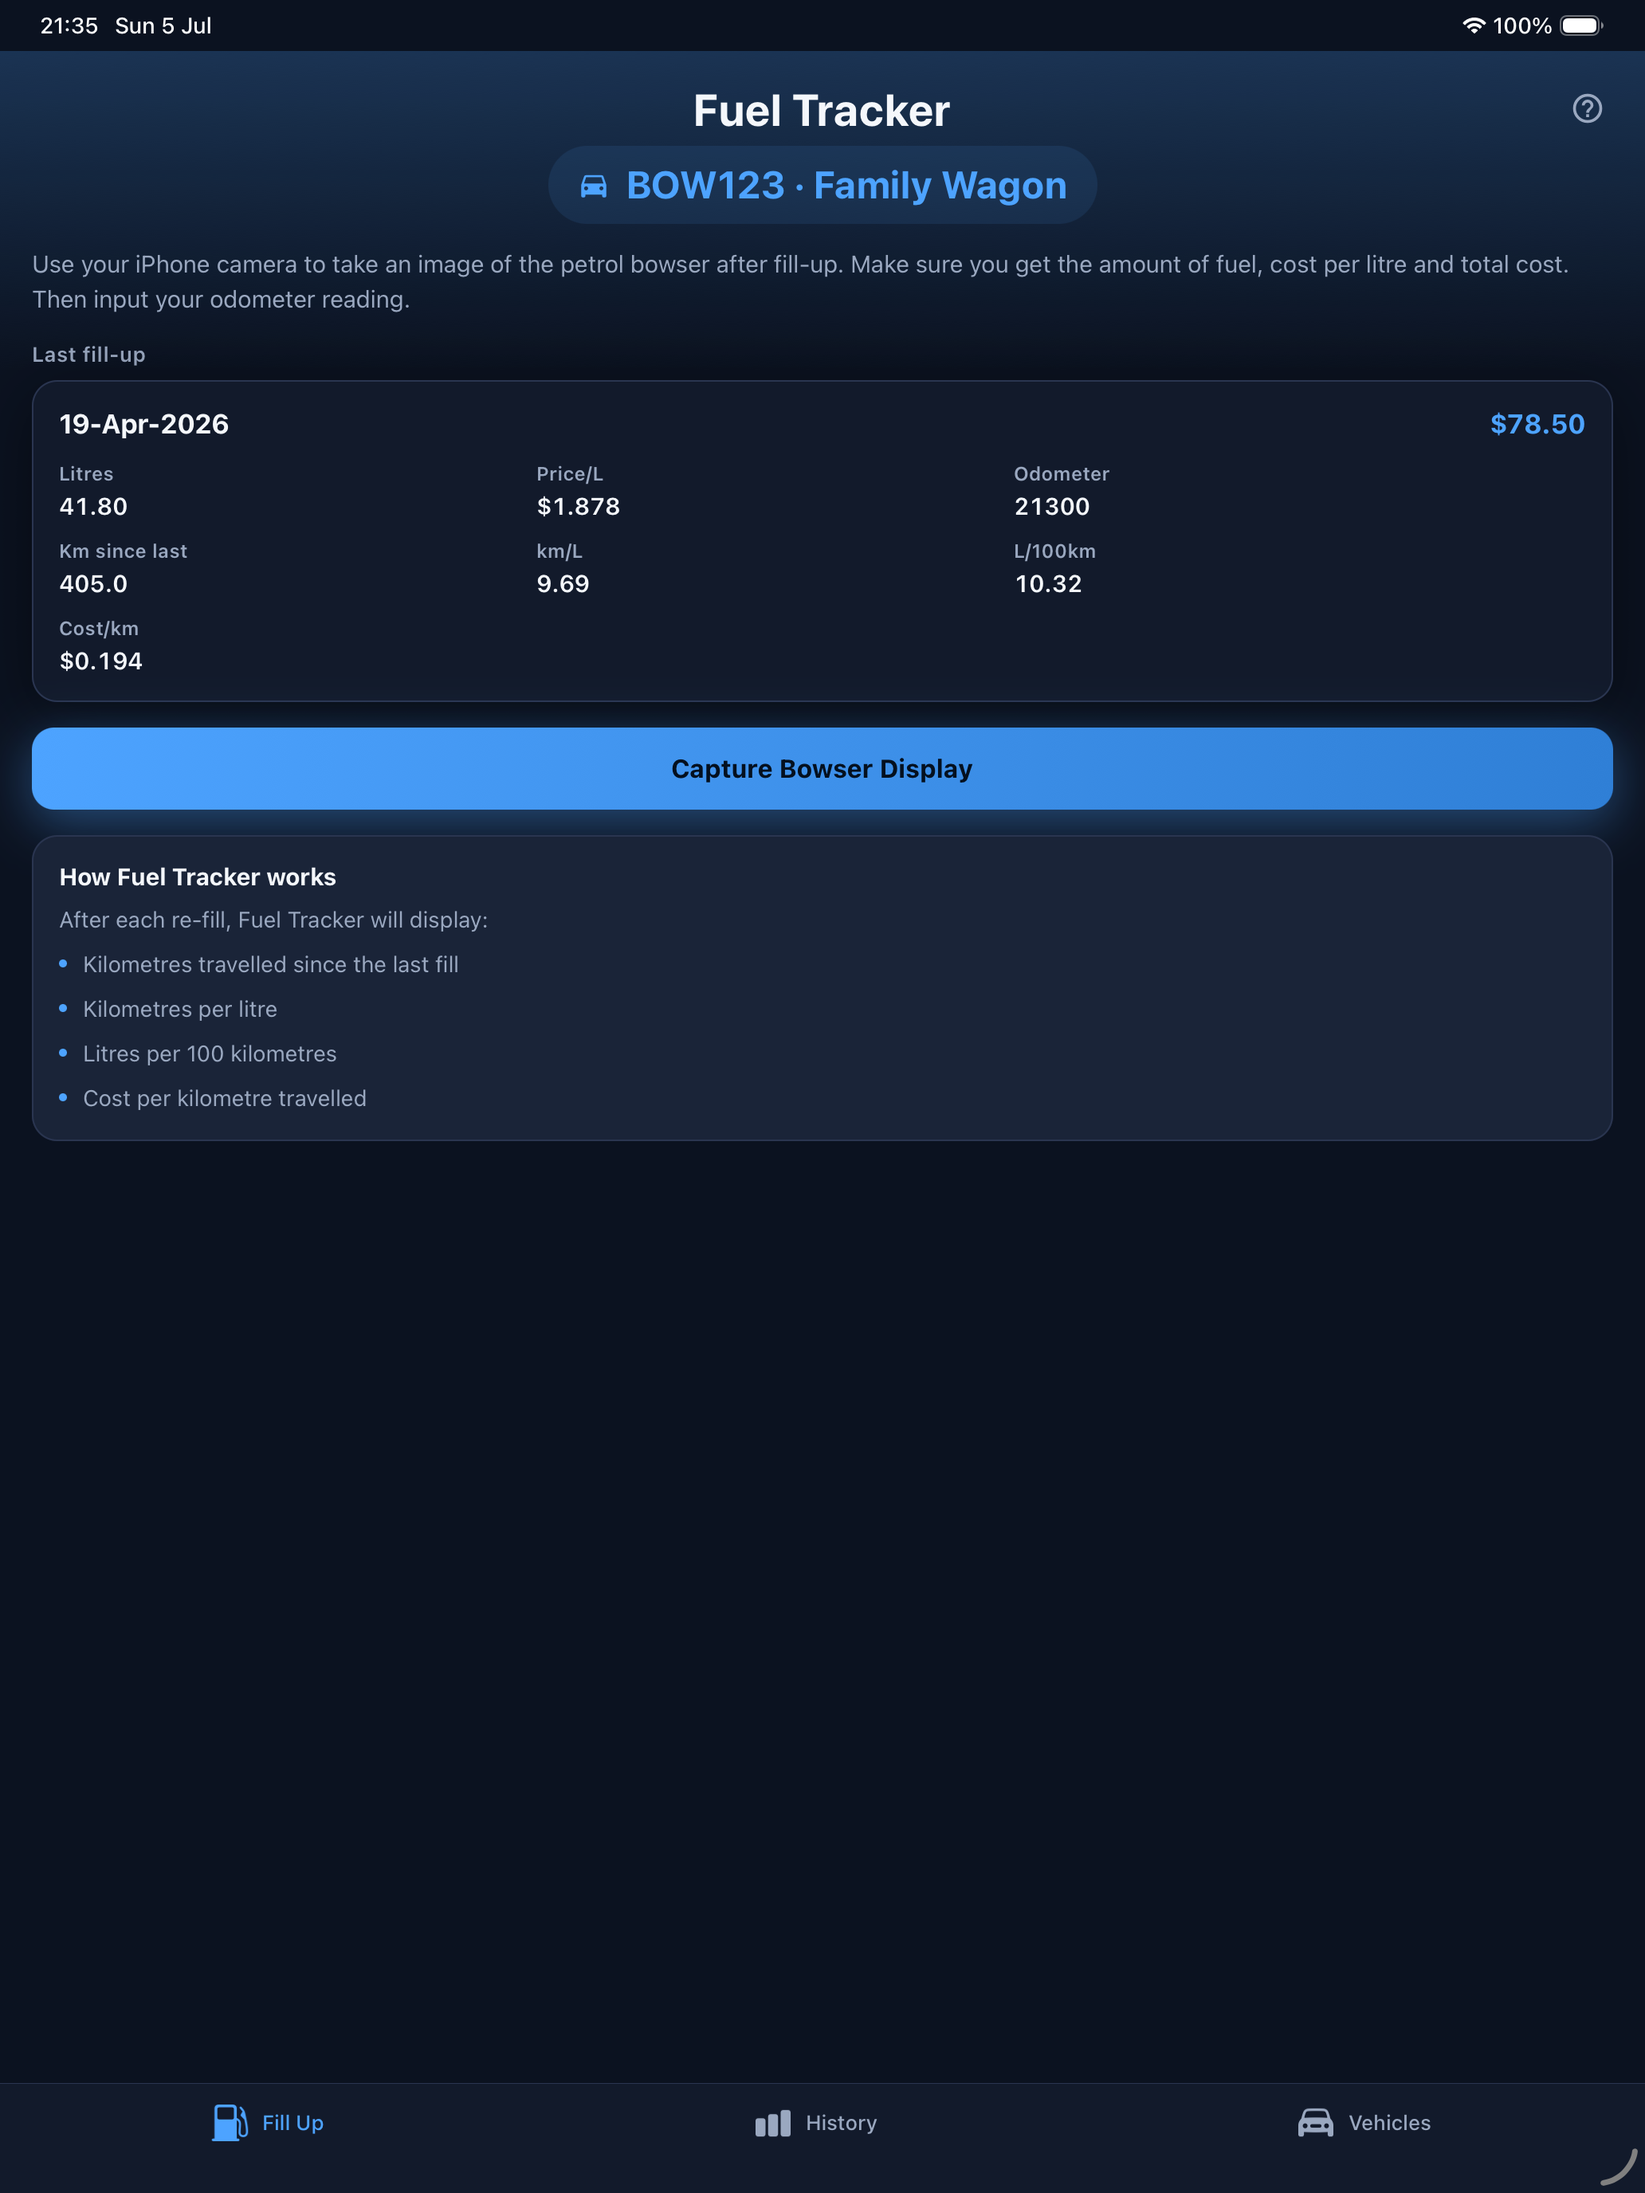
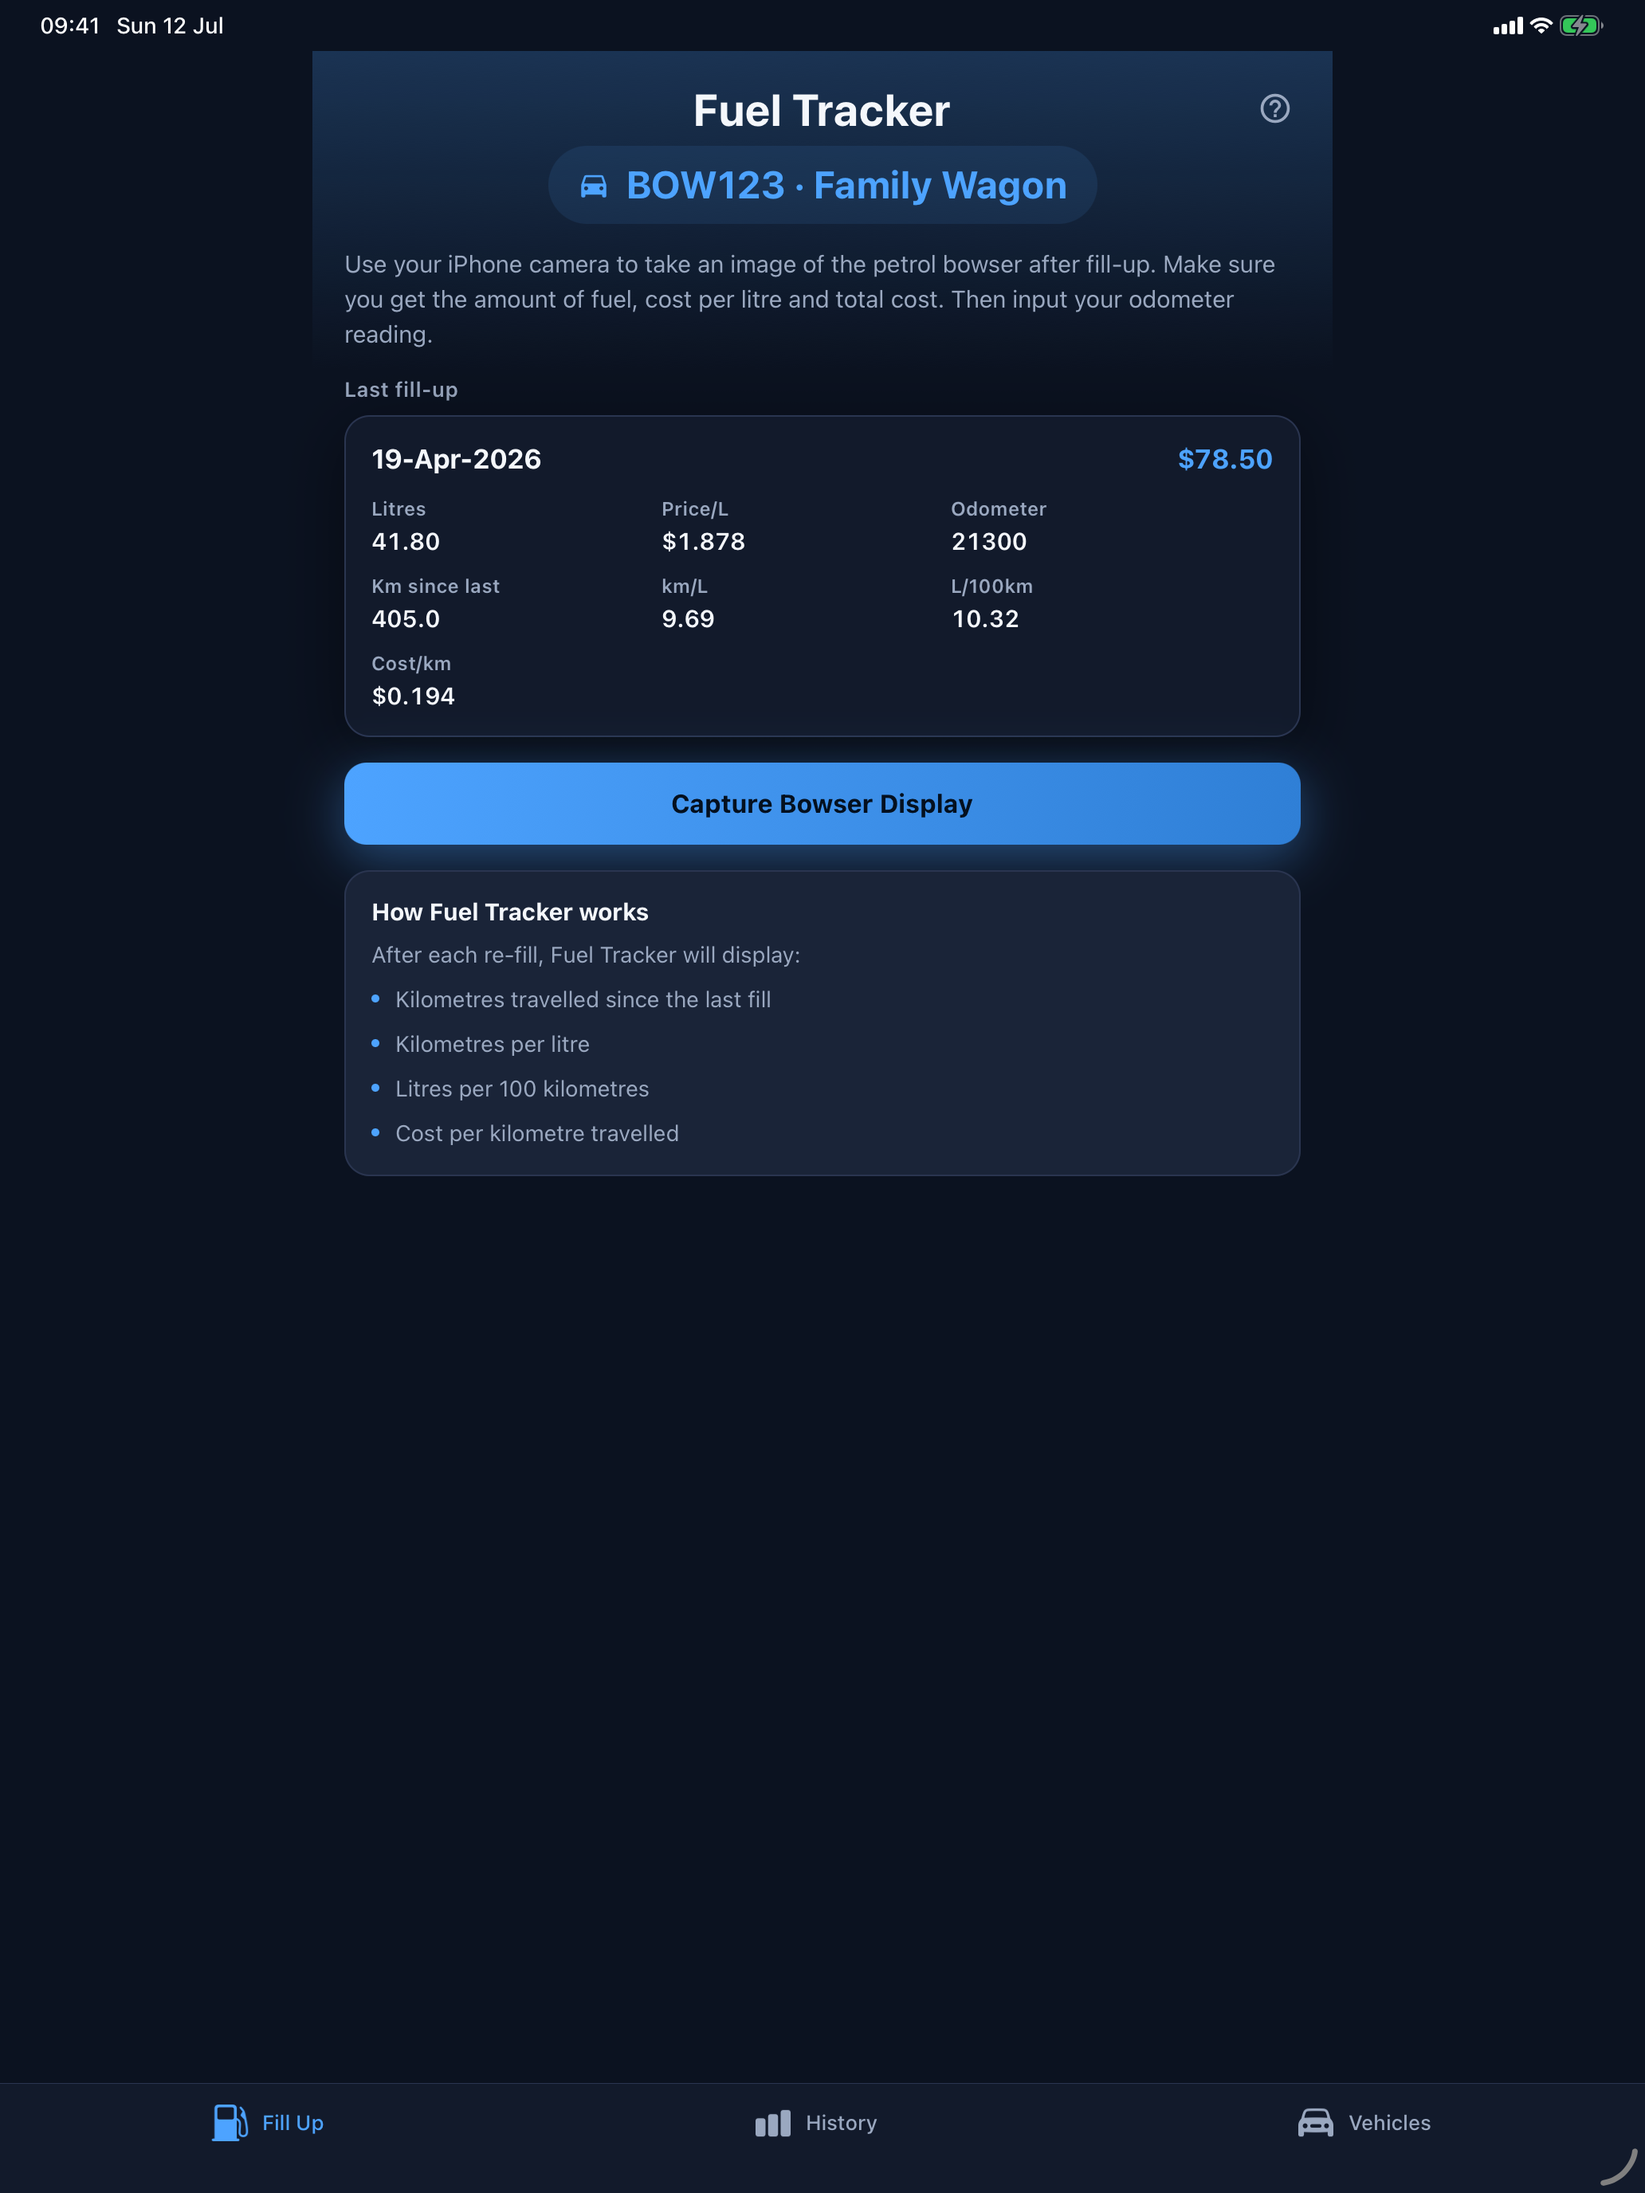
Make app universal (iPad) and add iPad screenshots
Set supportsTablet:true and TARGETED_DEVICE_FAMILY=1,2 so the app runs
full-screen on iPad instead of the letterboxed iPhone-compat view.
Cap the shared content column at maxWidth 640 (centred) so the
phone-first layout stays readable on the wide iPad canvas; a no-op on
iPhone. Portrait-only orientation carries over to iPad unchanged.

Replace the stale dev-launcher capture in ipad-13/01-fill-up.png and
add the full iPad Pro 13" (2064x2752) App Store screenshot set.

diff --git a/app/(tabs)/history.tsx b/app/(tabs)/history.tsx
@@ -260,6 +260,9 @@ const styles = StyleSheet.create({
     paddingTop: 8,
     paddingBottom: 12,
     gap: 14,
+    width: '100%',
+    maxWidth: 640,
+    alignSelf: 'center',
   },
   headerActions: {
     flexDirection: 'row',
@@ -315,6 +318,9 @@ const styles = StyleSheet.create({
     paddingHorizontal: 20,
     paddingBottom: 24,
     gap: 12,
+    width: '100%',
+    maxWidth: 640,
+    alignSelf: 'center',
   },
   listHeader: {
     marginBottom: 12,

diff --git a/constants/styles.ts b/constants/styles.ts
@@ -36,6 +36,11 @@ export const sharedStyles = StyleSheet.create({
   content: {
     padding: 20,
     gap: 16,
+    // Cap the column width so the phone-first layout stays readable and
+    // centred on wide iPad screens; a no-op on iPhone (screen < maxWidth).
+    width: '100%',
+    maxWidth: 640,
+    alignSelf: 'center',
   },
   card: {
     backgroundColor: AppColors.surface,
